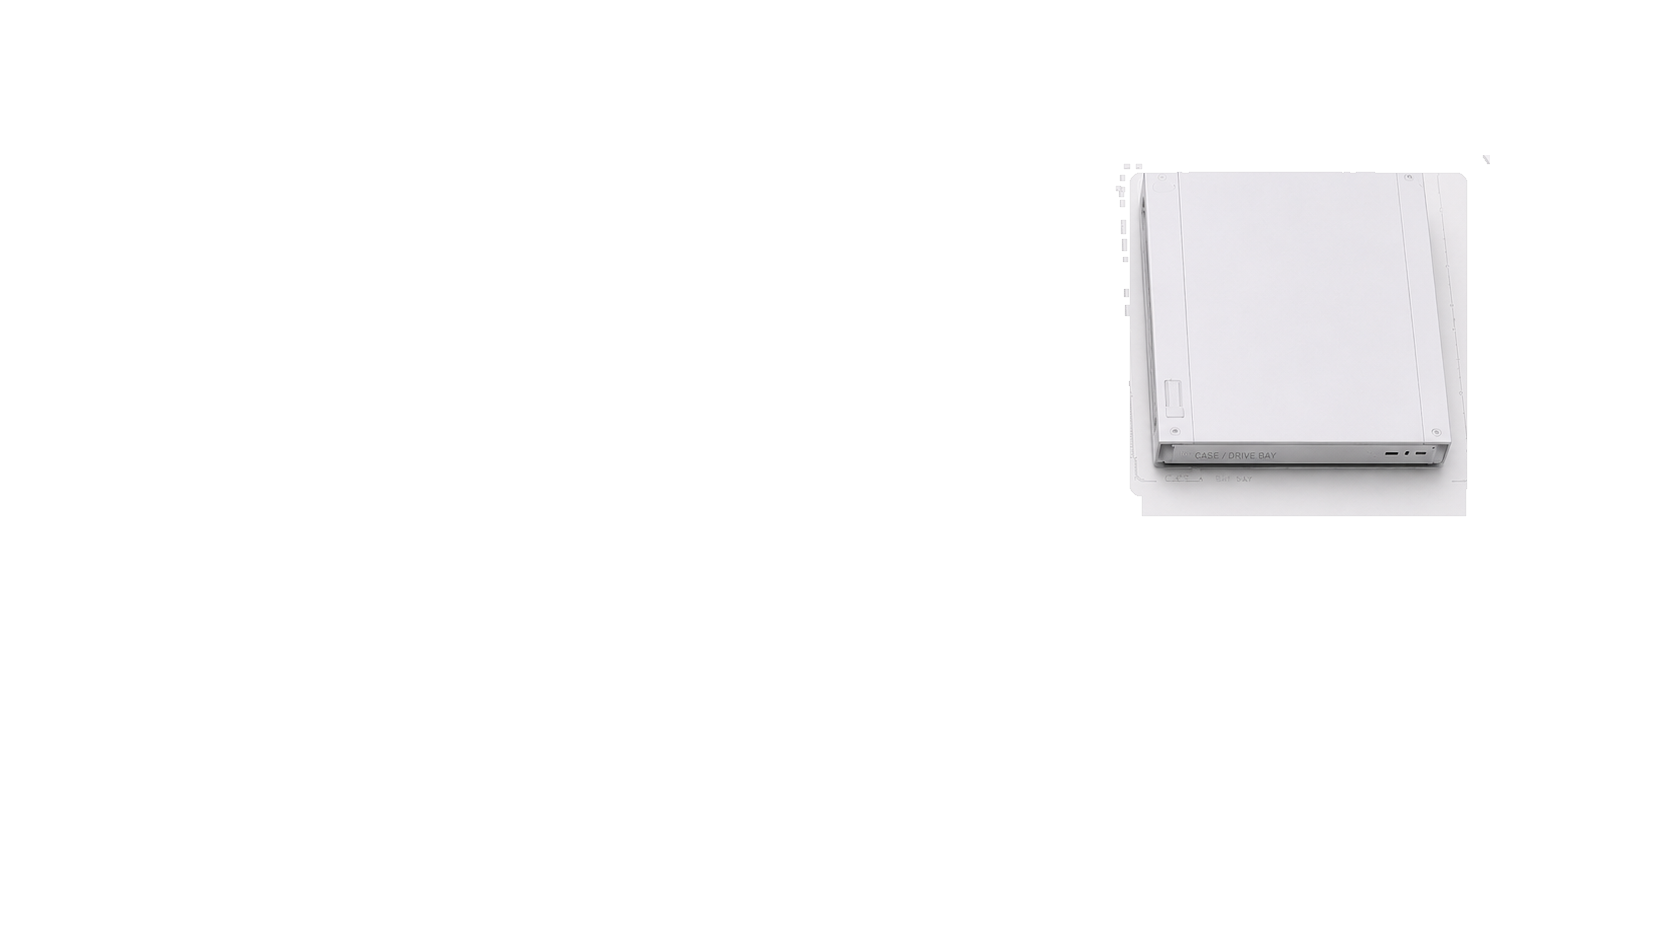
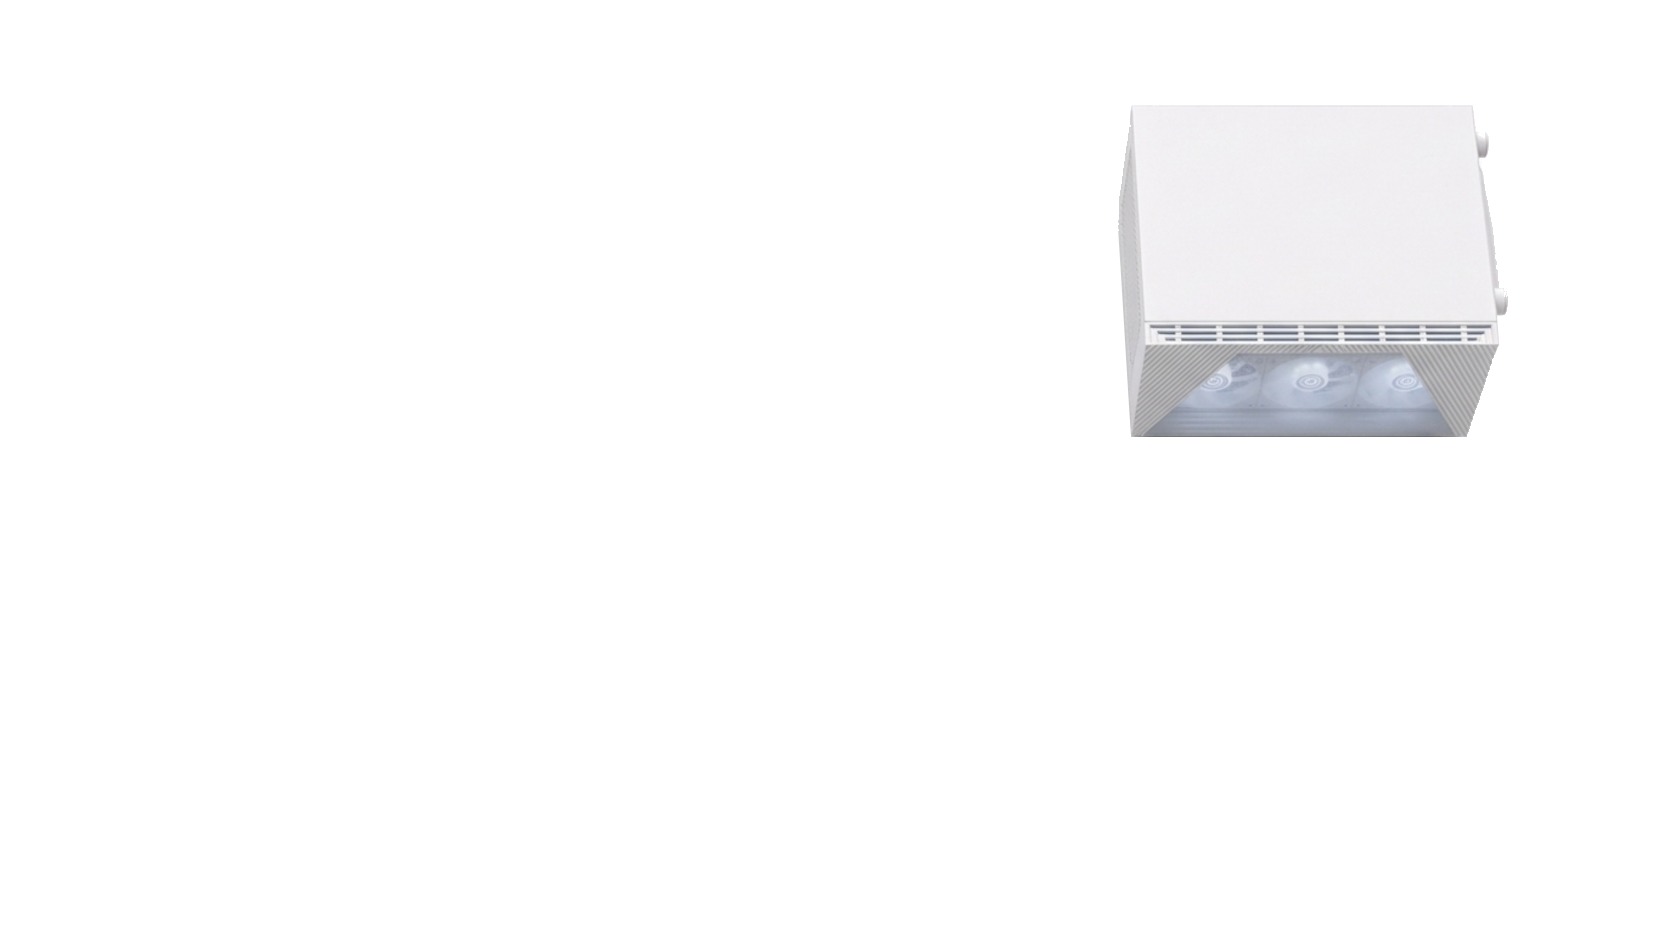
Fix fused plate visibility and add clear checklist action

Changed region(s): [[0.6531, 0.1541, 0.9019, 0.5547], [0.8708, 0.1541, 0.9019, 0.1849]]

diff --git a/apps/web/src/features/parts/pages/SelfQuotePage.tsx b/apps/web/src/features/parts/pages/SelfQuotePage.tsx
@@ -1,6 +1,6 @@
 import { keepPreviousData, useMutation, useQuery, useQueryClient } from '@tanstack/react-query';
 import { Bell, LayoutGrid, X } from 'lucide-react';
-import { useCallback, useEffect, useMemo, useState } from 'react';
+import { useCallback, useEffect, useMemo, useState, type KeyboardEvent } from 'react';
 import { Link, Navigate, useLocation, useNavigate, useSearchParams } from 'react-router-dom';
 import { useHiddenPageScrollbar } from '../../../hooks/useHiddenPageScrollbar';
 import { Screen } from '../../../components/ui';
@@ -345,7 +345,9 @@ function SelfQuoteSlotBoardPage() {
             nextCategory={nextCategory}
             onSelect={selectSlot}
             onAddPart={addPart}
+            onRemoveItem={removeItem}
             isMutating={isMutating}
+            isRemovePending={deleteMutation.isPending}
           />
           <div className="min-h-0 lg:h-[800px]">
             <SlotBoard
@@ -454,14 +456,18 @@ function QuoteChecklist({
   nextCategory,
   onSelect,
   onAddPart,
-  isMutating
+  onRemoveItem,
+  isMutating,
+  isRemovePending
 }: {
   draftItems: QuoteDraftItem[];
   selectedCategory: PartCategory | null;
   nextCategory: PartCategory | null;
   onSelect: (category: PartCategory) => void;
   onAddPart: (part: PartRow) => void;
+  onRemoveItem: (partId: string) => void;
   isMutating: boolean;
+  isRemovePending: boolean;
 }) {
   const [expandedCategory, setExpandedCategory] = useState<PartCategory | null>(() => selectedCategory ?? nextCategory ?? 'CPU');
   const filledCount = RECOMMENDED_SLOT_ORDER.filter((category) => draftItems.some((item) => item.category === category)).length;
@@ -488,6 +494,14 @@ function QuoteChecklist({
     onSelect(category);
   };
 
+  const openCategoryFromKeyboard = (event: KeyboardEvent<HTMLDivElement>, category: PartCategory) => {
+    if (event.key !== 'Enter' && event.key !== ' ') {
+      return;
+    }
+    event.preventDefault();
+    openCategory(category);
+  };
+
   const choosePart = (category: PartCategory, part: PartRow) => {
     onAddPart(part);
     const next = RECOMMENDED_SLOT_ORDER.find((candidate) => candidate !== category && !draftItems.some((item) => item.category === candidate));
@@ -497,13 +511,33 @@ function QuoteChecklist({
     }
   };
 
+  const removeCategoryItems = (items: QuoteDraftItem[]) => {
+    items.forEach((item) => onRemoveItem(item.partId));
+  };
+
+  const removeAllItems = () => {
+    draftItems.forEach((item) => onRemoveItem(item.partId));
+  };
+
   return (
     // lg: 보드(구성 관계도) 높이에 맞춰 늘어난다 — 좌·중 열의 아래 끝이 나란해진다.
     <aside data-testid="quote-checklist" className="panel flex h-fit flex-col p-4 lg:h-[800px] lg:overflow-hidden">
       <div className="mb-3 flex items-center justify-between">
         <h2 className="text-sm font-black text-commerce-ink">견적 체크리스트</h2>
-        <span data-testid="quote-checklist-progress" className="text-[11px] font-black text-slate-500">
-          {filledCount}/{RECOMMENDED_SLOT_ORDER.length} 완료
+        <span className="flex items-center gap-2">
+          <span data-testid="quote-checklist-progress" className="text-[11px] font-black text-slate-500">
+            {filledCount}/{RECOMMENDED_SLOT_ORDER.length} 완료
+          </span>
+          {draftItems.length > 0 ? (
+            <button
+              type="button"
+              disabled={isRemovePending}
+              onClick={removeAllItems}
+              className="rounded px-1 text-[10px] font-black text-slate-500 transition hover:bg-slate-100 hover:text-slate-700 disabled:cursor-not-allowed disabled:opacity-50"
+            >
+              전부 제거
+            </button>
+          ) : null}
         </span>
       </div>
       <ol className="min-h-0 flex-1 space-y-1.5 overflow-y-auto pr-1">
@@ -516,14 +550,16 @@ function QuoteChecklist({
           const label = PART_CATEGORY_LABELS[category] ?? category;
           return (
             <li key={category}>
-              <button
-                type="button"
+              <div
+                role="button"
+                tabIndex={0}
                 aria-label={`${label} 후보 목록 열기`}
                 aria-expanded={expandedCategory === category}
                 data-testid={`checklist-${category}`}
                 data-filled={filled ? 'true' : 'false'}
                 data-next={isNext ? 'true' : 'false'}
                 onClick={() => openCategory(category)}
+                onKeyDown={(event) => openCategoryFromKeyboard(event, category)}
                 className={`w-full rounded-md border px-2.5 py-2 text-left text-xs transition ${
                   isSelected || expandedCategory === category
                     ? 'border-brand-blue bg-white ring-2 ring-blue-100'
@@ -539,7 +575,20 @@ function QuoteChecklist({
                     {index + 1}. {label}
                   </span>
                   {filled ? (
-                    <span className="shrink-0 text-[10px] font-black text-emerald-700">✓ 완료</span>
+                    <span className="flex shrink-0 items-center gap-1.5">
+                      <span className="text-[10px] font-black text-emerald-700">✓ 완료</span>
+                      <button
+                        type="button"
+                        disabled={isRemovePending}
+                        onClick={(event) => {
+                          event.stopPropagation();
+                          removeCategoryItems(items);
+                        }}
+                        className="rounded px-1 text-[10px] font-black text-slate-500 transition hover:bg-slate-100 hover:text-slate-700 disabled:cursor-not-allowed disabled:opacity-50"
+                      >
+                        제거
+                      </button>
+                    </span>
                   ) : isNext ? (
                     <span className="shrink-0 text-[10px] font-black text-brand-blue">다음 선택</span>
                   ) : (
@@ -557,7 +606,7 @@ function QuoteChecklist({
                 ) : (
                   <div className="mt-1 text-[11px] text-slate-400">+ 부품 선택</div>
                 )}
-              </button>
+              </div>
               {expandedCategory === category ? (
                 <div
                   data-testid={`checklist-candidates-${category}`}

diff --git a/apps/web/src/features/parts/components/slot-board/FusedPlateArt.tsx b/apps/web/src/features/parts/components/slot-board/FusedPlateArt.tsx
@@ -52,11 +52,9 @@ export function FusedPlateArt({
           className="fused-plate-bg pointer-events-none absolute inset-0 h-full w-full select-none object-contain"
         />
         {FUSED_PART_LAYERS.map((layer) => {
-          const selectedEmptyRamPreview =
-            selectedCategory === 'RAM' && ramSlotCount === 0 && layer.category === 'RAM' && layer.slotIndex === 0;
           const visible = layer.category === 'RAM'
-            ? (layer.slotIndex ?? 0) < ramSlotCount || selectedEmptyRamPreview
-            : filledCategories.has(layer.category) || selectedCategory === layer.category;
+            ? (layer.slotIndex ?? 0) < ramSlotCount
+            : filledCategories.has(layer.category);
           const focused = selectedCategory === layer.category;
           const hovered = spotlightCategory === layer.category;
           const dimmed = Boolean(spotlightCategory && !hovered);